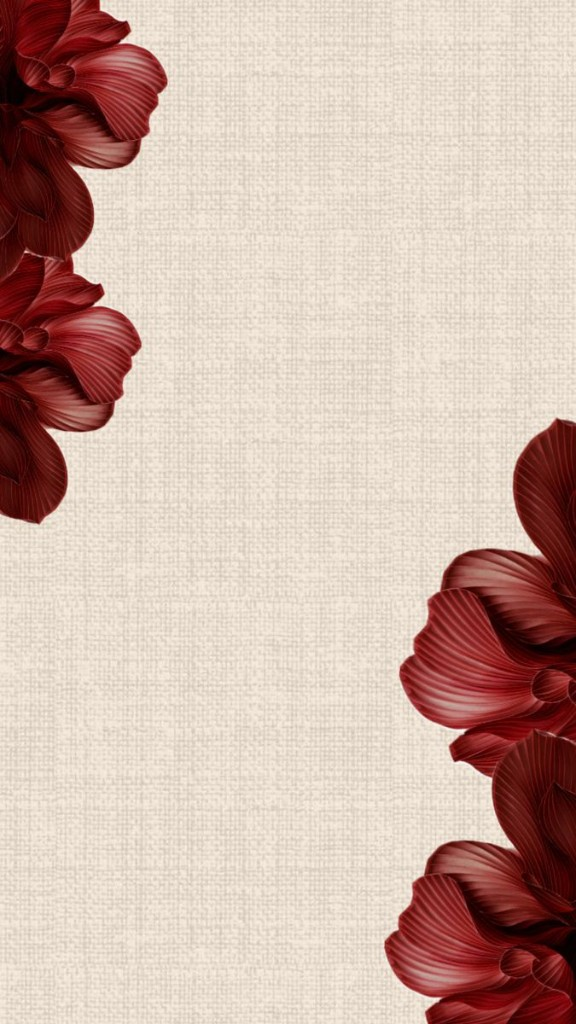
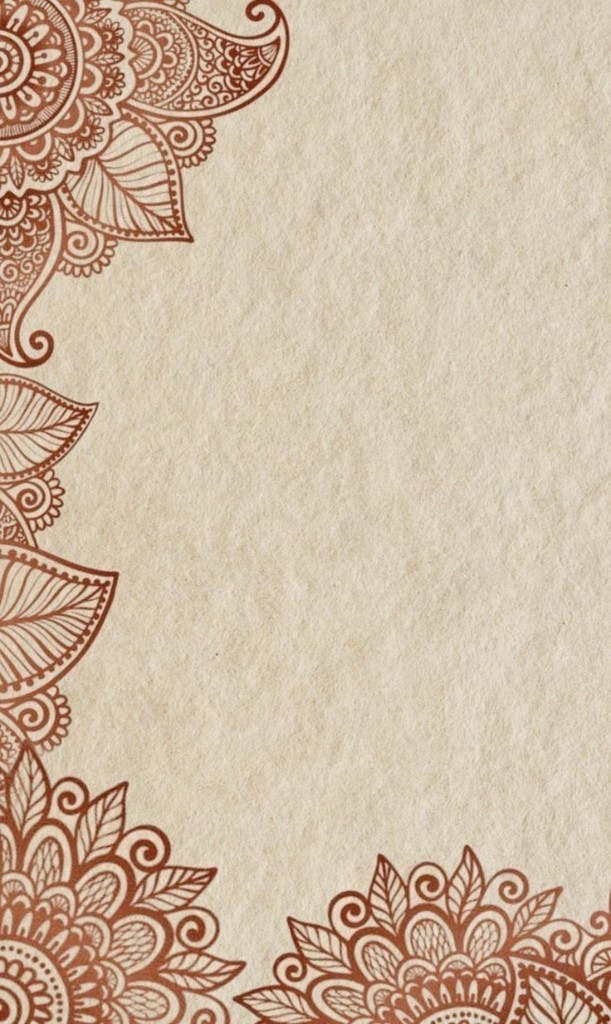
Home: henna wallpaper + left-bottom position; Favourites: burgundy wallpaper + light text

diff --git a/src/styles/theme.css b/src/styles/theme.css
@@ -103,7 +103,7 @@ textarea {
   background-image: url(/wallpaper-home.png);
   background-repeat: no-repeat;
   background-size: cover;
-  background-position: center;
+  background-position: left bottom;
   background-attachment: scroll;
   min-height: 100vh;
   color: var(--black);
@@ -143,6 +143,35 @@ textarea {
 }
 
 .page--wardrobe .divider {
+  background: rgba(245, 231, 222, 0.6);
+}
+
+.page--favourites {
+  background-image: url(/wallpaper-favourites.png);
+  background-repeat: no-repeat;
+  background-size: cover;
+  background-position: center;
+  background-attachment: scroll;
+  min-height: 100vh;
+  color: var(--cream);
+}
+
+.page--favourites .brand-header__wordmark,
+.page--favourites .page-title,
+.page--favourites .page-eyebrow,
+.page--favourites .brand-tagline {
+  color: var(--cream);
+}
+
+.page--favourites a {
+  color: var(--cream);
+}
+
+.page--favourites a:hover {
+  color: var(--white);
+}
+
+.page--favourites .divider {
   background: rgba(245, 231, 222, 0.6);
 }
 

diff --git a/src/pages/Favourites.tsx b/src/pages/Favourites.tsx
@@ -7,7 +7,7 @@ export function Favourites() {
   const favourites = getFavourites()
 
   return (
-    <div className="page">
+    <div className="page page--favourites">
       <BrandHeader eyebrow="Saved" title="Favourites" tagline="Let your wardrobe think for you." />
       <div className="divider" style={{ marginLeft: 'auto', marginRight: 'auto' }} />
 
